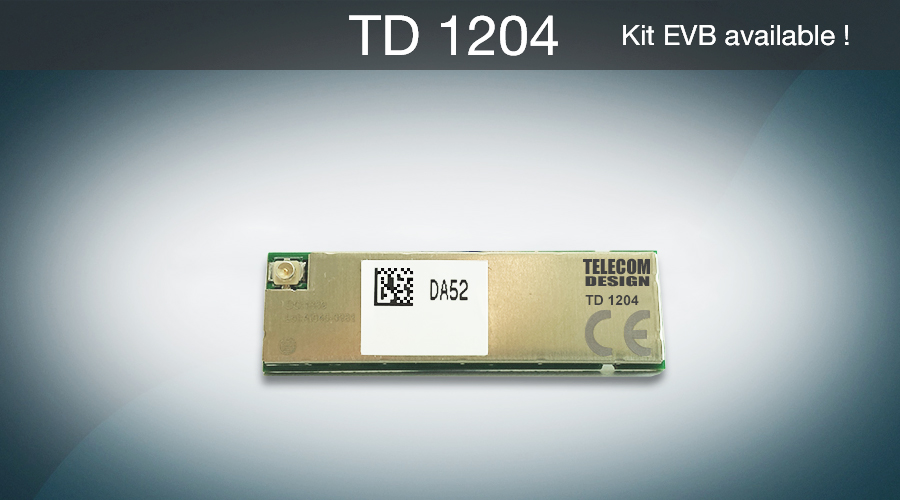
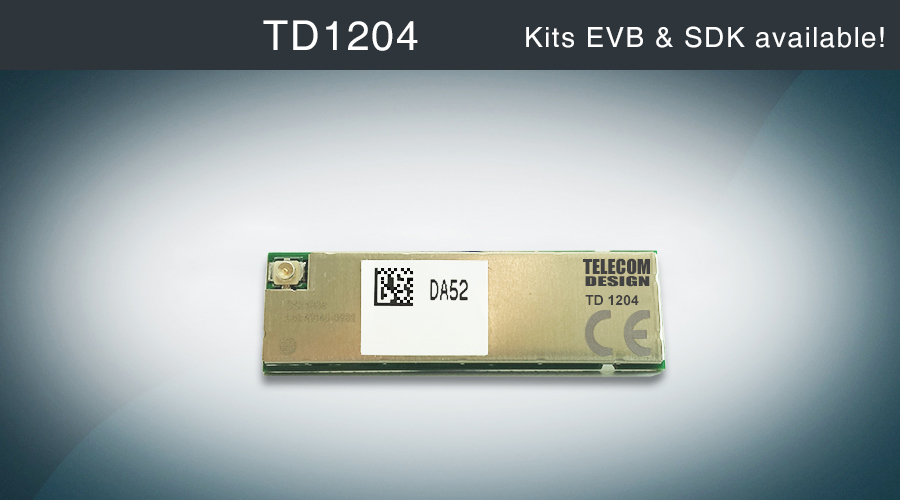
xmas release

Changed region(s): [[0.28, 0.03, 0.9956, 0.15]]

diff --git a/index.html b/index.html
@@ -12,9 +12,22 @@ scripts:
             <li data-target="#myCarousel" data-slide-to="0" class="active"></li>
             <li data-target="#myCarousel" data-slide-to="1"></li>
             <li data-target="#myCarousel" data-slide-to="2"></li>
+            <li data-target="#myCarousel" data-slide-to="3"></li>
         </ol>
         <div class="carousel-inner">
         	<div class="item active">
+                <img src="../images/carousel-td1207.jpg" alt="">
+                <div class="carousel-caption">
+                    <h4>TD1207</h4>
+                    <p>
+                        Make (it) yourself  <b> THE  XMAS DIY </b> GIFT
+                    </p>
+                    <div class="actions text-center">
+                        <a href="/cloud-on-chip/td1207/download.html"    class="btn btn-warning btn-large"><i class="icon-large icon-download"></i> Resources </a>
+                    </div>
+                </div>
+            </div>
+        	<div class="item">
                 <img src="../images/carousel-sdk50.jpg" alt="">
                 <div class="carousel-caption">
                     <div class="actions text-center">

diff --git a/assets/app/js/app.js b/assets/app/js/app.js
@@ -99,5 +99,5 @@ app.run(function($log, $cookieStore, Context, $timeout) {
 });
 
 //app.constant('CONSTANTS', {remote : 'http://localhost:9010'});
-app.constant('CONSTANTS', {remote : 'https://sensor.insgroup.fr'});
+app.constant('CONSTANTS', {remote : 'https://sandbox.insgroup.fr'});
 //app.constant('CONSTANTS', {remote : 'http://192.168.1.15:9010'});
